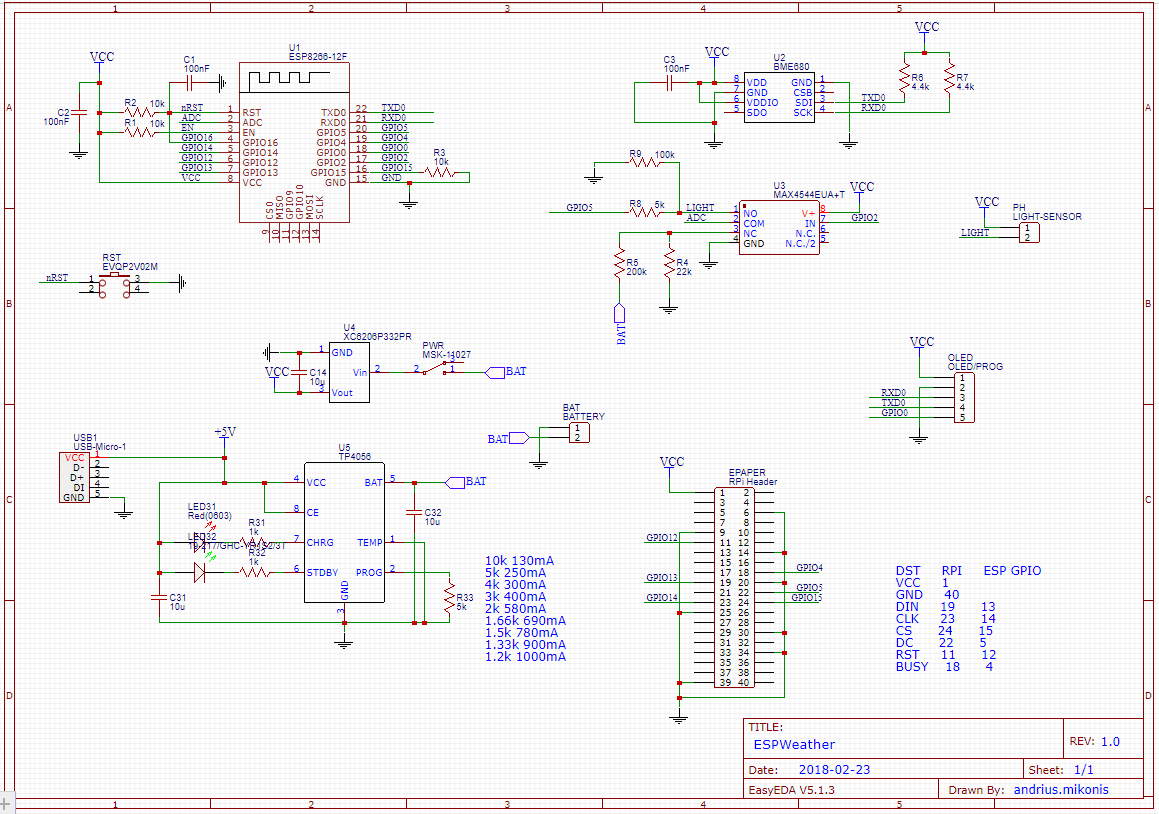
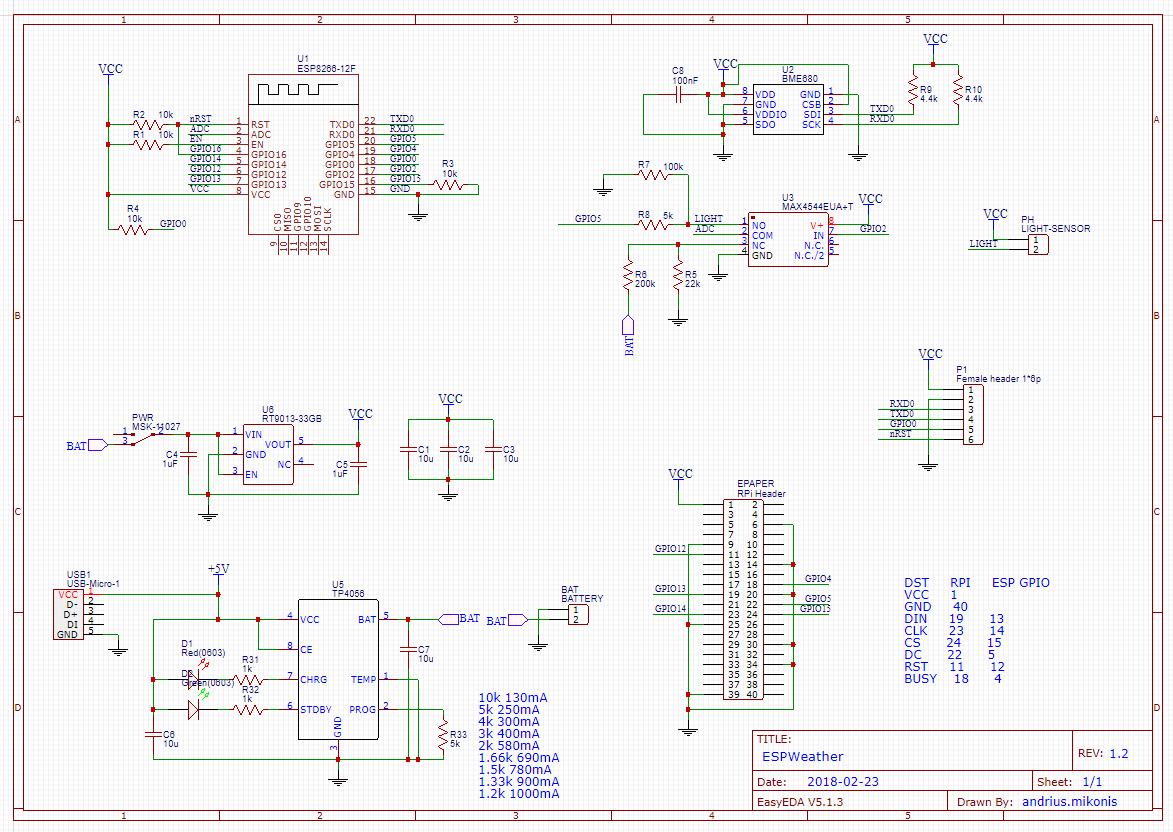
UPD: Documentation.

diff --git a/README.md b/README.md
@@ -23,6 +23,7 @@ Websockets are used for telemetry transfer to the UI.
 * Report relative humidity
 * Report air pressure
 * Report battery voltage
+* Report light intensity (photoresistor)
 * Monitor and display several other station telemetry
 * Headless
 * OLED display
@@ -50,23 +51,52 @@ These have no user interface and are intended to be placed into various strange 
 
 ## OLED
 
+### Prototype
+
 ![OLED Weather Station variant](schematics/oled_proto.jpg)
 
 `ESP_WEATHER_VARIANT_OLED` must be enabled in `wificonfig.h` for that option before building. It will use a SSD1306 128x64 .96" OLED display and will display current telemetry info except for battery.
 
+### Revision 1.0
+
+![OLED Weather Station variant rev1.0](schematics/oled-front-rev1.0.jpg)
+
 ## E-Paper
+
+### Prototype
 
 `ESP_WEATHER_VARIANT_EPAPER` must be enabled in `wificonfig.h` for that option. `ESP_WEATHER_VARIANT_OLED` and `ESP_WEATHER_VARIANT_EPAPER` are mutually exclusive and the latter is only available when using ESP-12 module as SPI interface is required for it's operation. ESP-1 does not have enough pins for this feature.
 
-![OLED Weather Station variant](schematics/ESPWeather_back.jpg)
+![EPaper Weather Station variant](schematics/ESPWeather_back.jpg)
 
 Please note, that for other variants esp01_1m board is used. E-Paper variant uses d1_mini board. I had some random issues flashing ESP-12 using esp01_1m board either via serial upload or OTA. Also, since RX and TX pins are used for I2C communication to the BMP280 sensor, once it is soldered OTA programming might be the only option.
 
 The most desirable feature of this variant is that the display is so wide it can fit four readings. Station names that this variant can display are configured using `{station name}/name` MQTT message as described in relevant section below. First column is always the current station and three other are configurable.
 
+### Revision 1.0
+
+![EPaper Weather Station variant rev1.0](schematics/epd-front-rev1.0.jpg)
+![EPaper Weather Station variant rev1.0](schematics/epd-back-rev1.0.jpg)
+
 ## UI
 
 TODO
+
+# Versions
+## Prototypes
+
+Prototypes mainly use breakout boards and wires to connect stuff together. Additionally prototypes use `DHT11` and `BMP280` for
+humidity and temperature/pressure respectively. They also use a divider across battery input to read battery voltage.
+
+## Revision 1.0
+
+This revision is the first version of the boards. Changes are - an analog switch to read battery voltage and photoresistor value.
+Additionally boards use `BME280` for humidity/temperature/pressure readings. Boards were designed with 200mA 3.3 regulator which proved to be insufficient even with beefier capacitors.
+
+## Revision 1.2
+
+This revision removes reset button, rearranges location of analog switch, adds GPIO0 pin to the OLED header for easier programming, more capable voltage regulator and more capacitors. Also there is a pullup for GPIO0.
+Additionally the `BME280` sensor ir better isolated from the main board by a cutout. The board itself is smaller.
 
 # Building
 
@@ -97,7 +127,7 @@ Cases for these can be 3D printed. TODO.
 
 * Rx is SCL
 * Tx is SDA
-* GPIO 2 is 1-Wire interface for DHT11
+* GPIO 2 is 1-Wire interface for DHT11 (for prototypes) and an input to analog switch (for boards)
 * GPIO 13, 14, 15, 5, 12, 4 are for EPD signals: DIN, CLK, CS, DC, RST, BUSY respectively
 * TOUT or ADC is for battery monitoring and connected to battery input via 1/10 voltage divider (ADC can measure up to 1.0V, so this scale factor is quite convenient)
 * sourced on Ebay: DHT11 for ESP-1S module, BMP280 board, TP4050 lipo micro-usb charger board, SSD1306 and 2.13" RPI-Zero E-Paper HAT (Waveshare)
